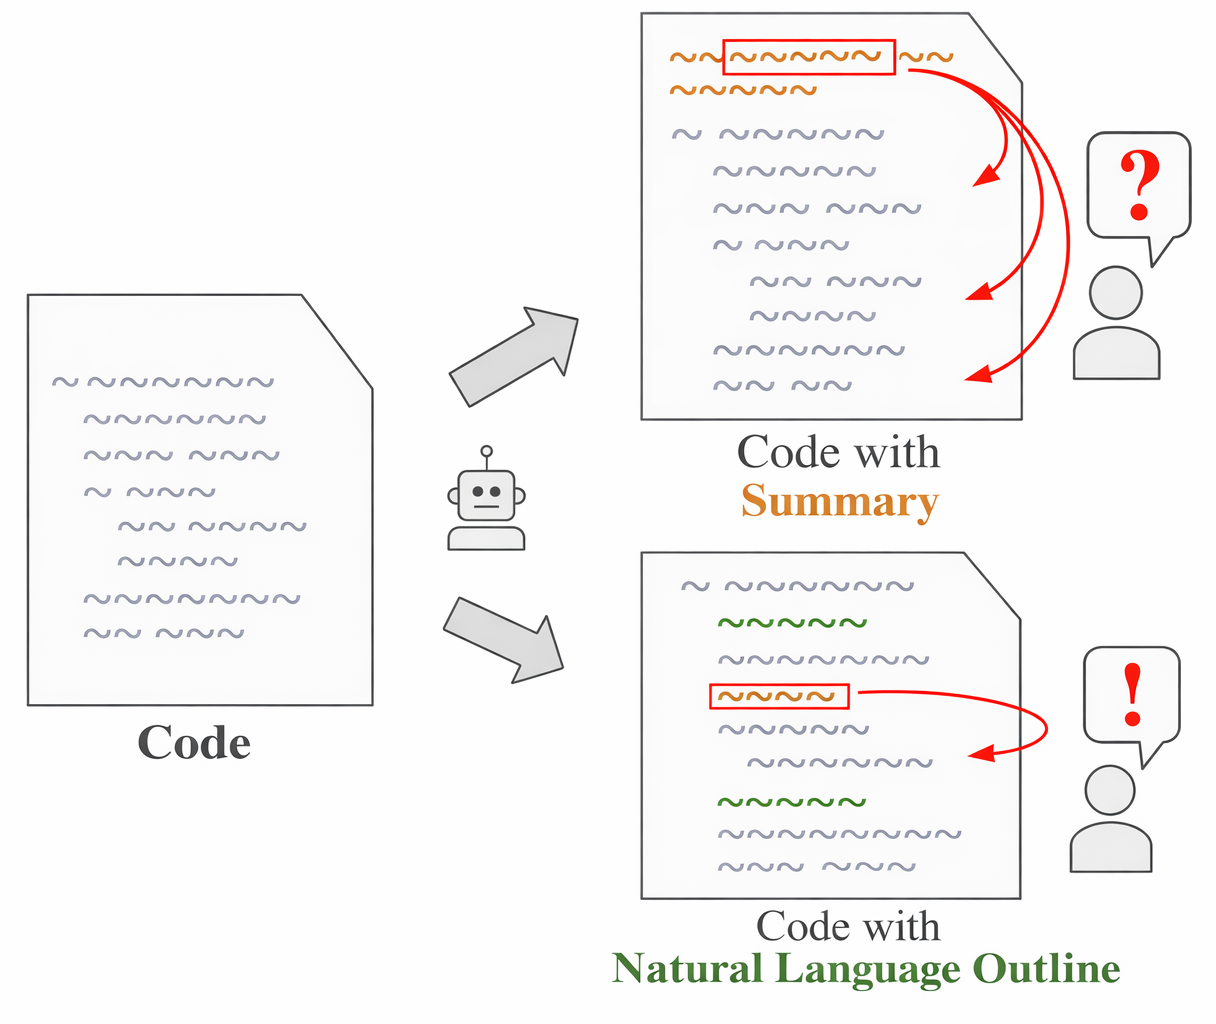
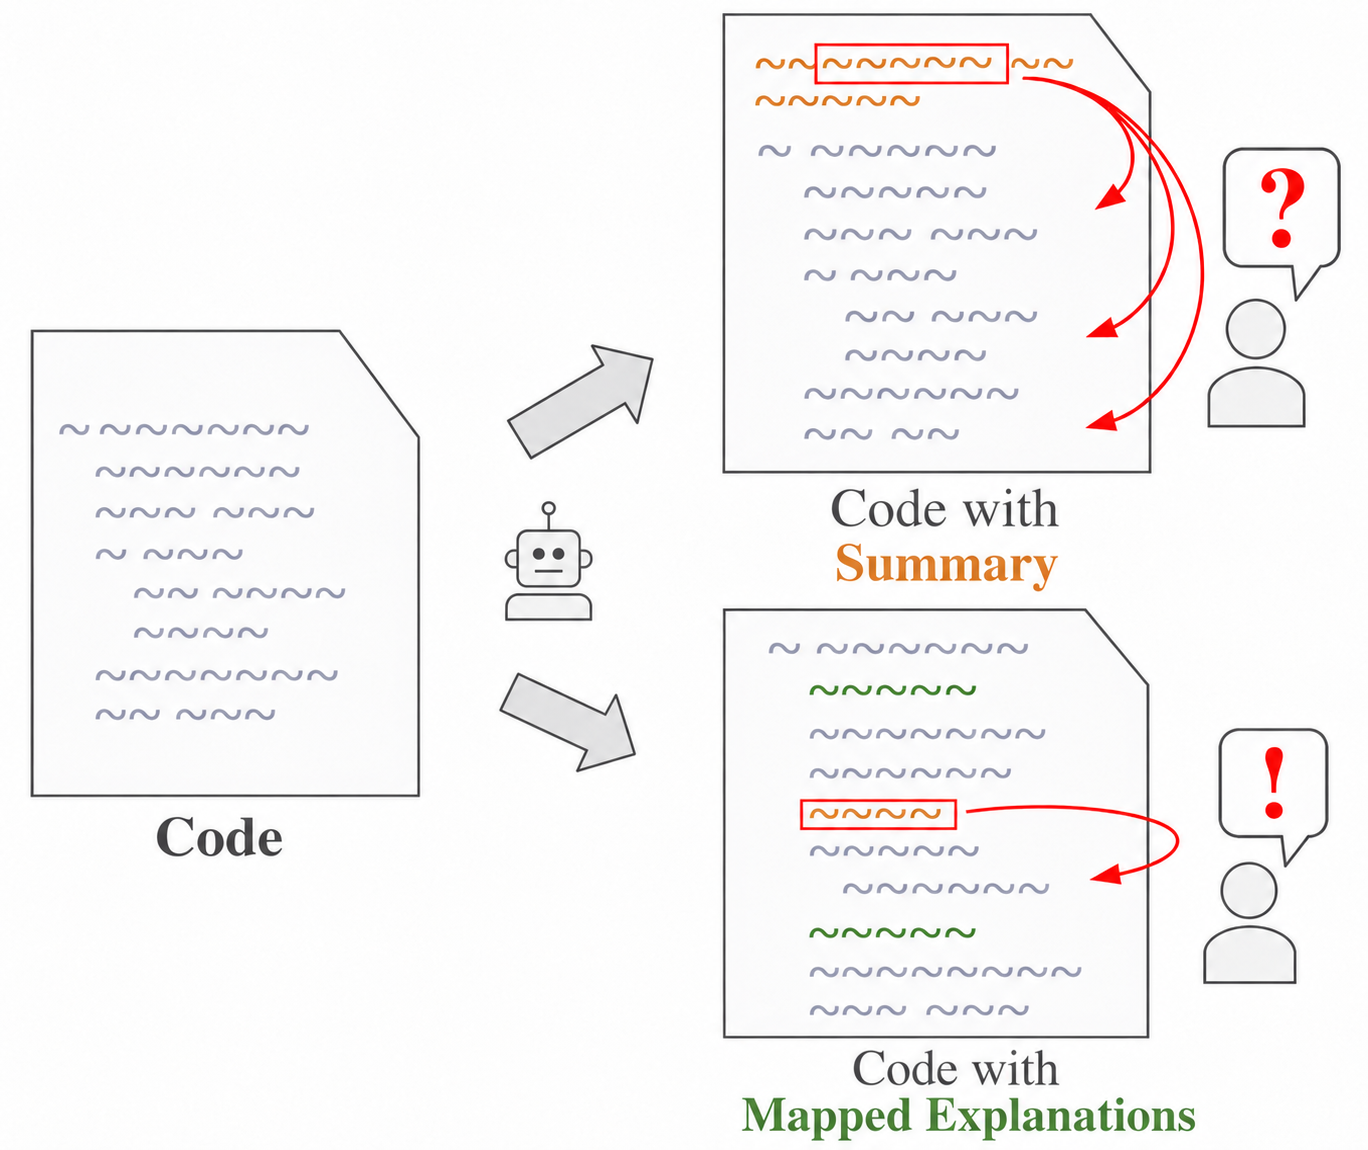
Updated presentation

diff --git a/index.html b/index.html
@@ -155,6 +155,19 @@
     .result-slide h2 {
       text-align: center;
     }
+    .result-slide img {
+      display: block;
+      max-width: 100%;
+      max-height: 68vh;
+      margin: 0 auto;
+      object-fit: contain;
+    }
+    .result-slide .caption {
+      margin-top: 0.35em;
+      text-align: center;
+      font-size: 0.55em;
+      color: #333;
+    }
     .prompt-box {
       font-family: "Courier New", monospace;
       font-size: 0.58em;
@@ -239,18 +252,48 @@
         </div>
       </section>
 
+      <section class="dataset-slide">
+        <h2>SWE-bench Verified Mini Dataset: Django subset</h2>
+        <ul>
+          <li>25 real bug-fix tasks from Django repository</li>
+          <li>Input: starting commit, GitHub issue text</li>
+          <li>Correctness check: existing tests, test patch</li>
+          <li>Is used for code generation system's performance evaluation, including AI agents</li>
+        </ul>
+      </section>
+
+      <section class="analysis-slide">
+        <h2>Evaluation Plan</h2>
+        <p><strong>Explanations:</strong> Junie gemini-3.1-flash-lite-preview<br>
+        <strong>Code generation:</strong> Junie gemini-3-flash-preview</p>
+        <ol>
+          <li>Run system to compose code explanations on files from gold patch and 10 random files</li>
+          <li>Insert explanations as comments</li>
+          <li>Run each Django task twice: baseline repo and repo with inserted explanations</li>
+          <li>Check correctness with the test patch and existing regression tests</li>
+        </ol>
+      </section>
+
+      <section class="result-slide">
+        <h2>Results</h2>
+        <img src="django_success_count_comparison.png" alt="Junie solved Django tasks before and after explanations">
+        <p class="caption">Solved Django tasks before and after adding explanations.</p>
+      </section>
+
+      <section class="result-slide">
+        <h2>Results</h2>
+        <img src="django_agent_actions_with_passed_tests.png" alt="Junie agent actions only for tasks with passed eval">
+        <p class="caption">Agent action counts on Django tasks with passed evaluation. With explanations agent on 12/20 (60%) tasks did fewer number of actions.</p>
+      </section>
+
       <section class="summary-slide">
         <h2>Summary</h2>
-        <p>Done:</p>
-        <ol>
-          <li>Researched methods of explainability</li>
-          <li>Implemented plugin</li>
-          <li>Evaluation</li>
-        </ol>
-        <p>Future steps:</p>
-        <ol>
-          <li>Add support for other agents</li>
-        </ol>
+        <ul>
+          <li>Built a plugin for code generation with aligned explanations</li>
+          <li>Prepared an evaluation setup using SWE-bench Verified Mini subset</li>
+          <li>On passed checks, explanations reduced Junie's actions in 12/20 cases</li>
+        </ul>
+        <p><strong>Next:</strong> extend experiments to more repositories and agents</p>
       </section>
     </div>
   </div>

diff --git a/presentation.tex b/presentation.tex
@@ -10,10 +10,9 @@
 }
 
 \usepackage[english]{babel}
-\usepackage[utf8x]{inputenc}
+\usepackage[utf8]{inputenc}
 \usepackage{ulem}
 \usepackage{booktabs}
-\usepackage{adjustbox}
 \usepackage{graphicx}
 \usepackage{tikz}
 \usetikzlibrary{shapes.geometric, arrows.meta, positioning}
@@ -58,7 +57,7 @@
 \vspace{-0.9cm}
 \begin{figure}
     \centering
-    \hspace*{0.02\linewidth}\includegraphics[width=1.04\linewidth]{problem.png}
+    \hspace*{0.02\linewidth}\includegraphics[width=1.04\linewidth]{problem1}
 \end{figure}
 \end{column}
 
@@ -176,7 +175,7 @@ Build a code assistant that \textbf{generates code and human-friendly explanatio
 }
 \end{frame}
 
-\begin{frame}{Code with Explanations}
+\begin{frame}[fragile]{Code with Explanations}
 \centering
 \ifdefined\HCode
 % HTML build (e.g., via make4ht): render an inline video player.
@@ -190,19 +189,69 @@ Build a code assistant that \textbf{generates code and human-friendly explanatio
 \fi
 \end{frame}
 
+\begin{frame}[t]{SWE-bench Verified Mini: Django subset}
+\scriptsize
+\setlength{\leftmargini}{1.2em}
+\textbf{What is in the dataset}
+\begin{itemize}\setlength{\itemsep}{0.08cm}
+    \item Real bug-fix tasks from \texttt{django/django}.
+    \item For each task: GitHub issue text, starting commit, Django version, and setup commit.
+    \item Reference solution: gold code patch and test patch.
+    \item Evaluation tests: \texttt{FAIL\_TO\_PASS} checks fixed by the patch and \texttt{PASS\_TO\_PASS} regression checks.
+\end{itemize}
+
+\vspace{0.05cm}
+\textbf{Why it is needed}
+\begin{itemize}\setlength{\itemsep}{0.08cm}
+    \item Gives realistic repository-level tasks without running the full SWE-bench Verified set.
+    \item Keeps evaluation focused on one codebase, so results are easier to compare and explain.
+    \item Provides ground truth patches and tests for measuring whether generated code and explanations match the real fix.
+\end{itemize}
+\end{frame}
+
+\begin{frame}[t]{Evaluation Plan}
+\scriptsize
+\begin{enumerate}\setlength{\itemsep}{0.12cm}
+    \item Run each Django task twice: baseline agent and agent with explanations.
+    \item Check correctness with the dataset test patch and existing regression tests.
+    \item Compare solved tasks: \texttt{PASS}/\texttt{FAIL} before and after explanations.
+    \item Compare agent efficiency: number of actions on tasks with passed evaluation.
+    \item Review explanations for grounding: do they describe the actual code changes?
+\end{enumerate}
+
+\vspace{0.18cm}
+\textbf{Explanations:} Junie gemini-3.1-flash-lite-preview\\
+\textbf{Code generation:} Junie gemini-3-flash-preview
+\end{frame}
+
+\begin{frame}{Results}
+\centering
+\includegraphics[width=0.72\linewidth,height=0.68\textheight,keepaspectratio]{django_success_count_comparison.png}
+
+\vspace{0.12cm}
+\footnotesize Solved Django tasks before and after adding explanations.
+\end{frame}
+
+\begin{frame}{Results}
+\centering
+\includegraphics[width=0.96\linewidth,height=0.68\textheight,keepaspectratio]{django_agent_actions_with_passed_tests.png}
+
+\vspace{0.12cm}
+\footnotesize Agent action counts on Django tasks with passed evaluation.
+\end{frame}
+
 \begin{frame}[t]{Summary}
 \raggedright
-Done:
-\begin{enumerate}
-    \item Plugin prototype
-    \item Initial evaluation
-\end{enumerate}
-Future steps:
-\begin{enumerate}
-    \item Experiment with using agents for explanations
-    \item Extend the dataset with more diverse domains
-    \item Add support for other agents
-\end{enumerate}
+\scriptsize
+\begin{itemize}\setlength{\itemsep}{0.14cm}
+    \item Built a prototype for code generation with aligned explanations.
+    \item Prepared a Django-only evaluation setup using SWE-bench Verified Mini.
+    \item Initial result: solved tasks stayed at 20/25 after adding explanations.
+    \item On passed tasks, explanations reduced Junie's actions in 12/20 cases.
+\end{itemize}
+
+\vspace{0.12cm}
+\textbf{Next:} evaluate explanation grounding and extend experiments to more repositories and agents.
 \end{frame}
 
 % \begin{frame}{Done work till now}